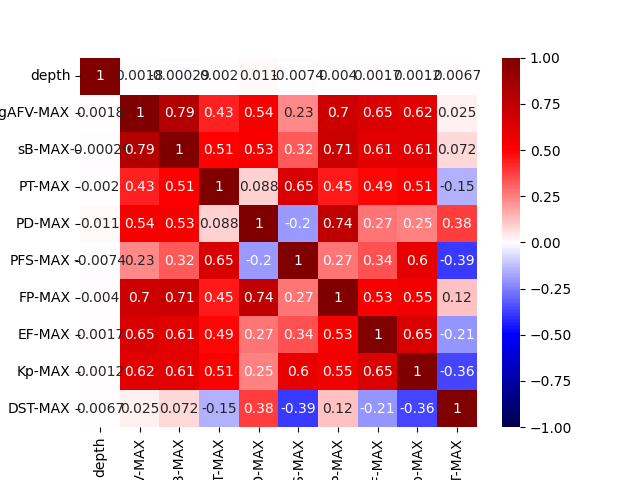
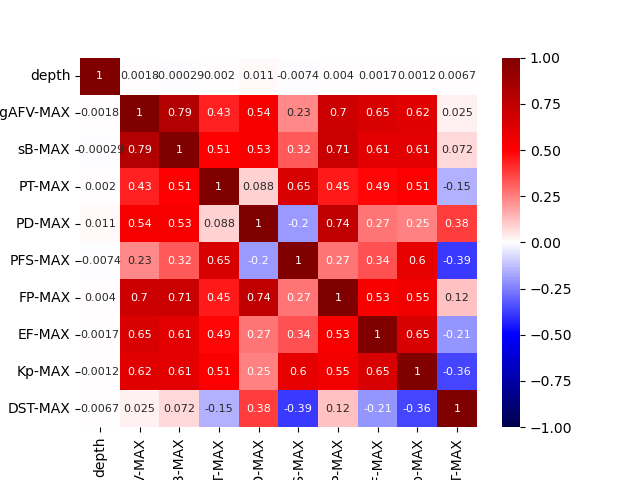
Changed plots to seaborn.

diff --git a/roman-plotting.py b/roman-plotting.py
@@ -19,7 +19,6 @@ merge_data = pd.read_csv('data/roman-merge.csv')
 #sns.heatmap(corr, cmap="seismic", vmax=1.0, vmin=-1.0, annot=True)
 
 data = merge_data[['mw', 'PFS-MEAN', 'PFS-MAX', 'PFS-DELTA', 'PFS-SD']]
-
 '''
 g = sns.PairGrid(data)
 g.map_upper(sns.histplot)
@@ -41,15 +40,18 @@ for event_val in event_vals:
         # Start with the event property we want
         varnames = [event_val]
         
+        x_vars = []
+        
         for val in calc_vals:
             varname = val + '-' + calc_prop
+            x_vars.append(varname)
             varnames.append(varname)
             
         data_slice = merge_data[varnames]
         
         # Correlation matrix
         corr = data_slice.corr()
-        sns.heatmap(corr, cmap="seismic", vmax=1.0, vmin=-1.0, annot=True)
+        sns.heatmap(corr, cmap="seismic", vmax=1.0, vmin=-1.0, annot=True, annot_kws={"fontsize":8})
         
         # Save plot
         plt.savefig('plots/corr-{}-{}.png'.format(event_val, calc_prop))
@@ -60,19 +62,27 @@ for event_val in event_vals:
         #matplotlib.rc_file_defaults()
         
         # Scatter plot
-        '''
-        g = sns.PairGrid(data_slice)
-        g.map_upper(sns.histplot)
-        g.map_lower(sns.kdeplot, fill=True)
-        g.map_diag(sns.histplot, kde=True)
-        '''
+        g = sns.PairGrid(data_slice, y_vars=event_val, x_vars=x_vars)
+        #g = sns.PairGrid(data_slice, hue=event_val, y_vars=event_val, x_vars=x_vars)
+        #g.add_legend()
         
-        # Seaborn KDE very slow for now
-        pd.plotting.scatter_matrix(data_slice, alpha=0.5)
+        #g.map(sns.kdeplot)
+        g.map(sns.histplot)
         
         # Save plot
-        plt.savefig('plots/scatter-{}-{}.png'.format(event_val, calc_prop))
+        plt.savefig('plots/hist-{}-{}.png'.format(event_val, calc_prop))
         
         # Reset plots
         reset_plots()
-    
+        '''
+        # KDE plot
+        g = sns.PairGrid(data_slice, y_vars=event_val, x_vars=x_vars)
+        
+        g.map(sns.kdeplot)
+        
+        # Save plot
+        plt.savefig('plots/kde-{}-{}.png'.format(event_val, calc_prop))
+        
+        # Reset plots
+        reset_plots()
+        '''

diff --git a/roman-merge.py b/roman-merge.py
@@ -18,6 +18,9 @@ if exists('data/omni2.pickle'):
 else:
     print('Generating data')
     from load_omni2_data import omni2
+    omni2.to_pickle('data/omni2.pickle')
+    
+print('Starting merge')
 
 hours_before = 24
 
@@ -80,8 +83,9 @@ for index, row in earthquake.iterrows():
     end_date = dp.parse(date)
     start_date = end_date - datetime.timedelta(hours = hours_before)
     
+    if count_t % 100 == 0:
+        print('Event #{}'.format(count_t))
     count_t += 1
-    print('Event #', count_t)
     
     calc_row = calculate_range(omni2, row, event_vals, calc_vals, calc_props, start_date, end_date)
     rows.append(calc_row)
@@ -94,3 +98,4 @@ for index, row in earthquake.iterrows():
 print('Creating DataFrame')
 out_data = pd.DataFrame(rows)
     
+out_data.to_csv('data/roman-merge.csv')
